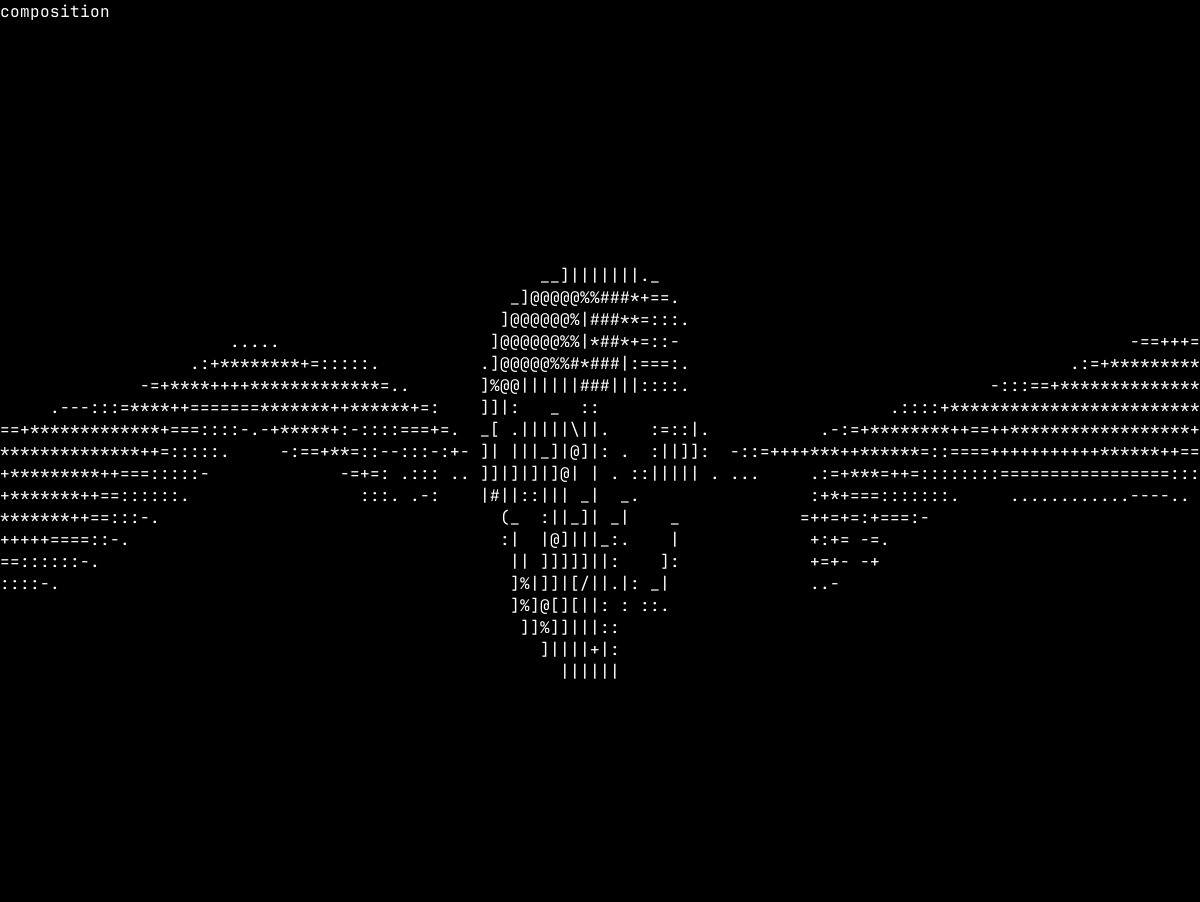
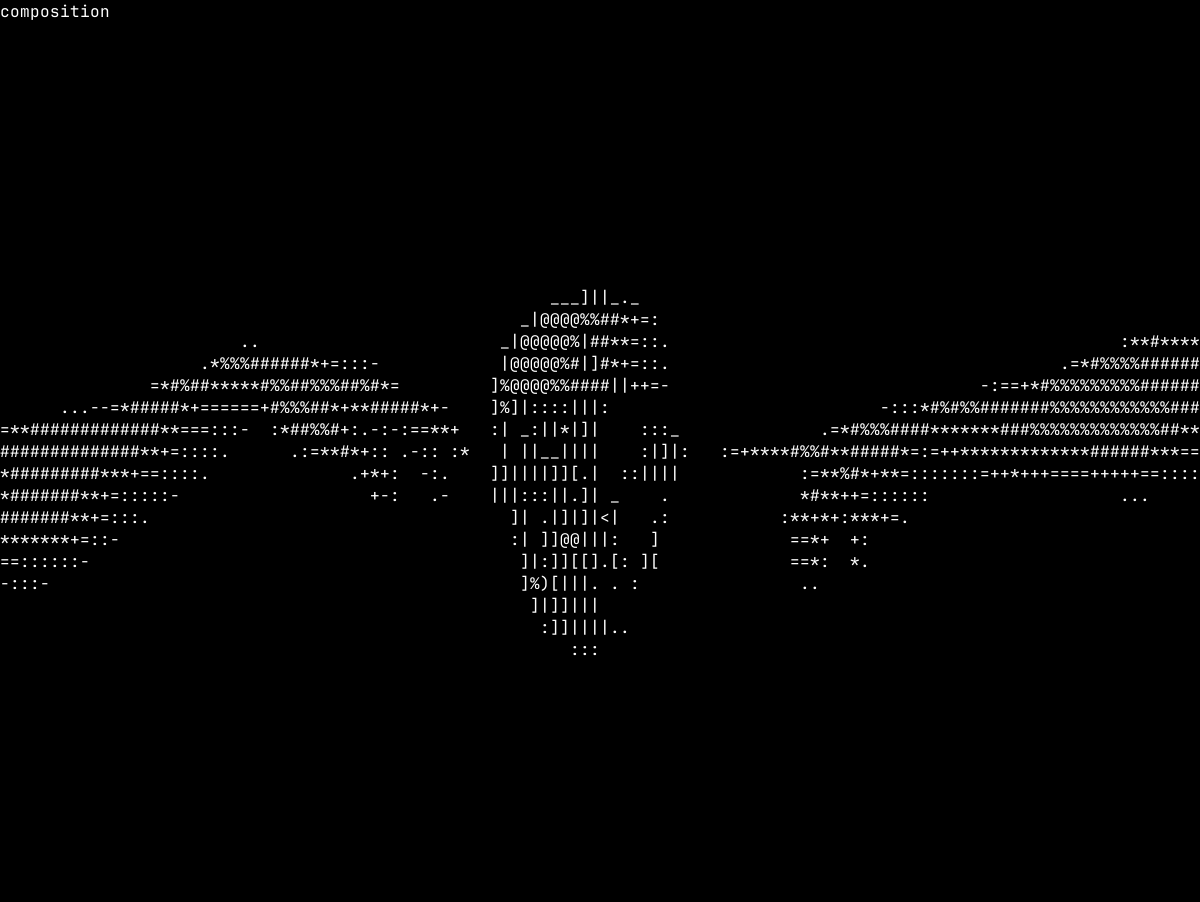
Reduce skull framing and strengthen hand shadow contrast

diff --git a/src/main.rs b/src/main.rs
@@ -6,7 +6,9 @@ use crossterm::{
 use glam::{EulerRot, Quat};
 use limen::{
     ascii::{AsciiResolver, CharGrid, GlyphMode, GlyphPalette, ToneMap},
-    composition::{Contacts, SplitBackdrop, Viewport, overlay_model},
+    composition::{
+        BackdropStyle, Contacts, DEFAULT_CENTER_WIDTH, SplitBackdrop, Viewport, overlay_model,
+    },
     font_atlas::{CellSize, FontAtlasConfig, GlyphAtlas},
     geometry::{self, Camera, Scene},
     obj,
@@ -35,15 +37,21 @@ struct Args {
     /// PNG with a left and right hand on black/transparent background
     #[arg(long, value_name = "PNG")]
     hands: Option<PathBuf>,
-    /// Fraction of terminal width reserved for the 3D model (default 0.42 with --hands)
+    /// Fraction of terminal width reserved for the 3D model (default 0.36 with --hands)
     #[arg(long, requires = "hands", value_parser = parse_center_width)]
     center_width: Option<f32>,
     /// Fingertip distance from the initial silhouette in character columns (default 1)
     #[arg(long, requires = "hands", value_parser = parse_hands_gap)]
     hands_gap: Option<f32>,
-    /// Static hand luminance multiplier (default 0.65)
+    /// Static hand luminance multiplier (default 0.85)
     #[arg(long, requires = "hands", value_parser = parse_unit)]
     hands_brightness: Option<f32>,
+    /// Static hand contrast, 1 to 3 (default 1.5)
+    #[arg(long, requires = "hands", value_parser = parse_hands_contrast)]
+    hands_contrast: Option<f32>,
+    /// Static hand luminance exponent, 0.25 to 4 (default 1.1)
+    #[arg(long, requires = "hands", value_parser = parse_gamma)]
+    hands_gamma: Option<f32>,
     /// Initial rotation about the X axis, in degrees
     #[arg(long, default_value = "0", allow_hyphen_values = true, value_parser = parse_degrees)]
     rotate_x: f32,
@@ -138,6 +146,9 @@ fn parse_center_width(s: &str) -> Result<f32, String> {
 fn parse_hands_gap(s: &str) -> Result<f32, String> {
     parse_bounded(s, 0.0, 10.0)
 }
+fn parse_hands_contrast(s: &str) -> Result<f32, String> {
+    parse_bounded(s, 1.0, 3.0)
+}
 fn parse_rotation_speed(s: &str) -> Result<f32, String> {
     parse_bounded(s, 0.0, 360.0)
 }
@@ -202,6 +213,14 @@ fn run() -> Result<(), Box<dyn Error>> {
         .as_deref()
         .map(SplitBackdrop::from_file)
         .transpose()?;
+    let defaults = BackdropStyle::default();
+    let backdrop_style = BackdropStyle {
+        brightness: args.hands_brightness.unwrap_or(defaults.brightness),
+        tone: ToneMap {
+            contrast: args.hands_contrast.unwrap_or(defaults.tone.contrast),
+            gamma: args.hands_gamma.unwrap_or(defaults.tone.gamma),
+        },
+    };
     let mut resolver = match args.font {
         Some(ref path) => AsciiResolver::with_atlas(GlyphAtlas::from_file(
             path,
@@ -298,7 +317,7 @@ fn run() -> Result<(), Box<dyn Error>> {
             width,
             height,
             if backdrop.is_some() {
-                args.center_width.unwrap_or(0.42)
+                args.center_width.unwrap_or(DEFAULT_CENTER_WIDTH)
             } else {
                 1.0
             },
@@ -344,11 +363,11 @@ fn run() -> Result<(), Box<dyn Error>> {
                 let contacts =
                     Contacts::from_frame(&frame, viewport, sx, sy, args.hands_gap.unwrap_or(1.0));
                 let mut layer = CharGrid::new(width, height);
-                image.render(
+                image.render_with_style(
                     &mut layer,
                     cell_aspect.value,
                     contacts,
-                    args.hands_brightness.unwrap_or(0.65),
+                    backdrop_style,
                     &mut resolver,
                 );
                 background = Some((key, layer));

diff --git a/src/composition.rs b/src/composition.rs
@@ -1,6 +1,6 @@
 //! Static split-image backdrops and terminal-space composition, independent of OBJ loading.
 use crate::{
-    ascii::{AsciiResolver, CharGrid},
+    ascii::{AsciiResolver, CharGrid, ToneMap},
     render::Framebuffer,
 };
 use std::{
@@ -11,6 +11,26 @@ use std::{
 };
 
 type Result<T> = std::result::Result<T, Box<dyn Error>>;
+
+pub const DEFAULT_CENTER_WIDTH: f32 = 0.36;
+
+/// Static image tone is independent of the model's lighting and exposure.
+#[derive(Debug, Clone, Copy)]
+pub struct BackdropStyle {
+    pub brightness: f32,
+    pub tone: ToneMap,
+}
+impl Default for BackdropStyle {
+    fn default() -> Self {
+        Self {
+            brightness: 0.85,
+            tone: ToneMap {
+                contrast: 1.5,
+                gamma: 1.1,
+            },
+        }
+    }
+}
 
 #[derive(Debug, Clone, Copy, PartialEq, Eq)]
 pub struct Viewport {
@@ -232,8 +252,29 @@ impl SplitBackdrop {
         brightness: f32,
         resolver: &mut AsciiResolver,
     ) {
+        self.render_with_style(
+            grid,
+            cell_aspect,
+            contacts,
+            BackdropStyle {
+                brightness,
+                tone: ToneMap::LINEAR,
+            },
+            resolver,
+        );
+    }
+    pub fn render_with_style(
+        &self,
+        grid: &mut CharGrid,
+        cell_aspect: f32,
+        contacts: Contacts,
+        style: BackdropStyle,
+        resolver: &mut AsciiResolver,
+    ) {
         assert!(cell_aspect.is_finite() && cell_aspect > 0.0);
-        assert!(brightness.is_finite() && (0.0..=1.0).contains(&brightness));
+        assert!(style.brightness.is_finite() && (0.0..=1.0).contains(&style.brightness));
+        assert!((1.0..=3.0).contains(&style.tone.contrast));
+        assert!((0.25..=4.0).contains(&style.tone.gamma));
         grid.clear();
         if grid.width() == 0 || grid.height() == 0 {
             return;
@@ -273,7 +314,8 @@ impl SplitBackdrop {
                         value += sample;
                     }
                 }
-                grid.set(x, y, resolver.tonal_char(value / 8.0 * brightness));
+                let luminance = style.tone.apply(value / 8.0) * style.brightness;
+                grid.set(x, y, resolver.tonal_char(luminance));
             }
         }
     }

diff --git a/examples/composition.rs b/examples/composition.rs
@@ -2,8 +2,10 @@
 use clap::Parser;
 use glam::Quat;
 use limen::{
-    ascii::{AsciiOptions, AsciiResolver, CharGrid},
-    composition::{Contacts, SplitBackdrop, Viewport, overlay_model},
+    ascii::{AsciiOptions, AsciiResolver, CharGrid, ToneMap},
+    composition::{
+        BackdropStyle, Contacts, DEFAULT_CENTER_WIDTH, SplitBackdrop, Viewport, overlay_model,
+    },
     font_atlas::{FontAtlasConfig, GlyphAtlas},
     geometry::{self, Camera, Scene},
     obj,
@@ -28,12 +30,16 @@ struct Args {
     rows: u16,
     #[arg(long, default_value_t = 0.5)]
     cell_aspect: f32,
-    #[arg(long, default_value_t = 0.42)]
+    #[arg(long, default_value_t = DEFAULT_CENTER_WIDTH)]
     center_width: f32,
     #[arg(long, default_value_t = 1.0)]
     hands_gap: f32,
-    #[arg(long, default_value_t = 0.65)]
+    #[arg(long, default_value_t = 0.85)]
     hands_brightness: f32,
+    #[arg(long, default_value_t = 1.5)]
+    hands_contrast: f32,
+    #[arg(long, default_value_t = 1.1)]
+    hands_gamma: f32,
     #[arg(long)]
     font: Option<PathBuf>,
     #[arg(long)]
@@ -48,6 +54,8 @@ fn main() -> Result<(), Box<dyn Error>> {
         || !(0.2..=0.8).contains(&args.center_width)
         || !(0.0..=10.0).contains(&args.hands_gap)
         || !(0.0..=1.0).contains(&args.hands_brightness)
+        || !(1.0..=3.0).contains(&args.hands_contrast)
+        || !(0.25..=4.0).contains(&args.hands_gamma)
     {
         return Err("invalid composition parameters".into());
     }
@@ -82,11 +90,17 @@ fn main() -> Result<(), Box<dyn Error>> {
     );
     let contacts = Contacts::from_frame(&frame, viewport, 2, 4, args.hands_gap);
     let mut output = CharGrid::new(w, h);
-    backdrop.render(
+    backdrop.render_with_style(
         &mut output,
         args.cell_aspect,
         contacts,
-        args.hands_brightness,
+        BackdropStyle {
+            brightness: args.hands_brightness,
+            tone: ToneMap {
+                contrast: args.hands_contrast,
+                gamma: args.hands_gamma,
+            },
+        },
         &mut resolver,
     );
     scene.instances[0].transform.rotation =

diff --git a/tests/cli.rs b/tests/cli.rs
@@ -251,15 +251,43 @@ fn hand_composition_options_validate_before_terminal_setup() {
         vec!["--center-width", "0.42"],
         vec!["--hands-gap", "1"],
         vec!["--hands-brightness", "0.65"],
+        vec!["--hands-contrast", "1.5"],
+        vec!["--hands-gamma", "1.1"],
         vec!["--hands", "missing.png", "--center-width", "NaN"],
         vec!["--hands", "missing.png", "--center-width", "0.1"],
         vec!["--hands", "missing.png", "--hands-gap", "11"],
         vec!["--hands", "missing.png", "--hands-gap", "NaN"],
         vec!["--hands", "missing.png", "--hands-brightness", "1.1"],
+        vec!["--hands", "missing.png", "--hands-contrast", "0.5"],
+        vec!["--hands", "missing.png", "--hands-contrast", "NaN"],
+        vec!["--hands", "missing.png", "--hands-gamma", "0"],
+        vec!["--hands", "missing.png", "--hands-gamma", "inf"],
     ] {
         let output = binary().args(args).output().unwrap();
         assert!(!output.status.success());
+        assert!(
+            String::from_utf8_lossy(&output.stderr).starts_with("error:"),
+            "invalid options reached asset loading"
+        );
         assert!(!output.stdout.contains(&0x1b) && !output.stderr.contains(&0x1b));
+    }
+    for (flag, value) in [
+        ("--hands-contrast", "1"),
+        ("--hands-contrast", "1.5"),
+        ("--hands-contrast", "3"),
+        ("--hands-gamma", "0.25"),
+        ("--hands-gamma", "1.1"),
+        ("--hands-gamma", "4"),
+    ] {
+        let output = binary()
+            .args(["--hands", "/missing/creation.png", flag, value])
+            .output()
+            .unwrap();
+        let error = String::from_utf8_lossy(&output.stderr);
+        assert!(
+            error.starts_with("limen:") && error.contains("/missing/creation.png"),
+            "valid options were rejected: {error}"
+        );
     }
     let output = binary()
         .args(["--hands", "/missing/creation.png"])

diff --git a/tests/composition.rs b/tests/composition.rs
@@ -194,3 +194,35 @@ fn static_tonal_lookup_preserves_model_history() {
     r.resolve(&frame, 2, 4, &mut grid, options);
     assert_eq!(grid.get(0, 0), Some(b'='));
 }
+
+#[test]
+fn stronger_hand_tone_separates_shadows_from_highlights_and_keeps_background_black() {
+    use limen::composition::BackdropStyle;
+    let image = SplitBackdrop::from_png(&hands()).unwrap();
+    let mut resolver = AsciiResolver::default();
+    let contacts = Contacts {
+        left: 6.0,
+        right: 14.0,
+        y: 5.0,
+    };
+    let mut linear = CharGrid::new(20, 10);
+    let mut expressive = CharGrid::new(20, 10);
+    let style = BackdropStyle::default();
+    image.render(&mut linear, 0.5, contacts, style.brightness, &mut resolver);
+    image.render_with_style(&mut expressive, 0.5, contacts, style, &mut resolver);
+    let level = |grid: &CharGrid, x| {
+        RAMP.iter()
+            .position(|&c| Some(c) == grid.get(x, 5))
+            .unwrap()
+    };
+    assert!(level(&expressive, 2) < level(&linear, 2));
+    assert!(level(&expressive, 17) > level(&linear, 17));
+    assert!(
+        level(&expressive, 17) - level(&expressive, 2) > level(&linear, 17) - level(&linear, 2)
+    );
+    assert!(
+        expressive
+            .rows()
+            .all(|row| row[6..14].iter().all(|&c| c == b' '))
+    );
+}

diff --git a/docs/composition/README.md b/docs/composition/README.md
@@ -4,11 +4,11 @@
 
 ![Руки по краям, череп в центре](composition.png)
 
-[Текстовый кадр](composition.txt): 120×40 символов без строки статуса, cell aspect 0.5, viewport модели 50×40, sampling модели 2×4. Шрифт JetBrains Mono Regular v2.304, 16 px/em, ячейка атласа 10×22. PNG-превью использует битмапы fontdue; реальное сглаживание терминала может отличаться.
+[Текстовый кадр](composition.txt): 120×40 символов без строки статуса, cell aspect 0.5, viewport модели 43×40, sampling модели 2×4. Шрифт JetBrains Mono Regular v2.304, 16 px/em, ячейка атласа 10×22. PNG-превью использует битмапы fontdue; реальное сглаживание терминала может отличаться.
 
 Исходники примера: локальные `Skull.obj`, объект `part_0`, и `Creation-of-Adam.png` размером 4999×2812. X-поворот модели 180°. Для PNG используются области [0, 2499) и [2499, 4999), исходный файл не меняется. При загрузке альфа смешивается с чёрным, а цвет преобразуется в яркость. Чёрные поля не определяют положение кончиков пальцев. Обе руки имеют одинаковый физический масштаб и отдельные позиции. Перед подбором тональных символов яркость уменьшается усреднением по площади через сетку 2×4.
 
-Параметры: центральная доля ширины 0.42, зазор 1 столбец, яркость рук 0.65. Меняйте `--hands-gap` для расстояния от пальцев до модели, `--center-width` для размера центральной области, `--hands-brightness` для яркости слоя. Модель загружается обычным OBJ-конвейером; фоновый слой не меняет глубину и освещение модели.
+Параметры: центральная доля ширины 0.36, зазор 1 столбец, яркость рук 0.85, контраст 1.5, gamma 1.1. По сравнению с [предыдущим кадром](composition-before.png), центральная область уменьшена с 50 до 43 столбцов: череп немного меньше относительно рук. На руках усилены различия между светлыми участками и тенями в исходном PNG. Меняйте `--hands-gap` для расстояния от пальцев до модели, `--center-width` для размера центральной области, `--hands-brightness` для яркости слоя, `--hands-contrast` и `--hands-gamma` для выраженности теней. После усреднения яркости применяется `clamp(contrast × (L − 0.5) + 0.5, 0, 1)^gamma × brightness`. Исходный чёрный фон сохраняется; новых физических теней от 3D-света на руках не рассчитывается. Модель загружается обычным OBJ-конвейером; фоновый слой не меняет глубину и освещение модели.
 
 ```sh
 cargo run --release -- Skull.obj --object part_0 --rotate-x 180 \
@@ -28,6 +28,8 @@ cargo run --release --example composition -- Skull.obj --object part_0 --rotate-
 python3 examples/preview_ascii.py target/creation-preview composition
 ```
 
+Для воспроизведения прежнего размера и тональности добавьте `--center-width 0.42 --hands-brightness 0.65 --hands-contrast 1 --hands-gamma 1`.
+
 Снимки появятся в `target/creation-preview/composition.txt` и `.png`. `--angle 90` показывает профиль с тем же положением рук. Для 80×24 добавьте `--columns 80 --rows 24`; PNG-генератору также передайте `--columns 80`.
 
-Проверки покрывают нечётную ширину изображения, прозрачную середину, разную яркость и высоту рук, сохранение физических пропорций, наложение тёмной геометрии, малые окна и сохранение истории ASCII. PTY-проверка использует синтетический PNG и проверяет неподвижные края при вращении и смене света/тона, скрытие фона в диагностике, zoom, resize и восстановление терминала. Эти проверки не зависят от локальных художественных исходников.
+Проверки покрывают нечётную ширину изображения, прозрачную середину, разную яркость и высоту рук, сохранение физических пропорций, усиление тонального разделения теней и светов без засветки фона, наложение тёмной геометрии, малые окна и сохранение истории ASCII. PTY-проверка использует синтетический PNG и проверяет неподвижные края при вращении и смене света/тона, скрытие фона в диагностике, zoom, resize и восстановление терминала. Эти проверки не зависят от локальных художественных исходников.

diff --git a/README.md b/README.md
@@ -37,13 +37,15 @@ cargo run --release -- Skull.obj --object part_0 --rotate-x 180 \
 | Параметр | По умолчанию | Действие |
 | --- | --- | --- |
 | `--hands PNG` | Выключено | Включить композицию с двумя областями изображения |
-| `--center-width` | 0.42 | Доля ширины окна для 3D-модели, 0.2–0.8 |
+| `--center-width` | 0.36 | Доля ширины окна для 3D-модели, 0.2–0.8 |
 | `--hands-gap` | 1 | Зазор от пальцев до исходного силуэта в столбцах, 0–10 |
-| `--hands-brightness` | 0.65 | Множитель яркости рук, 0–1 |
+| `--hands-brightness` | 0.85 | Множитель яркости рук, 0–1 |
+| `--hands-contrast` | 1.5 | Контраст рук вокруг яркости 0.5, 1–3; 1 — нейтральный |
+| `--hands-gamma` | 1.1 | Показатель степени яркости рук, 0.25–4; больше 1 углубляет тени |
 
-Последние три параметра требуют `--hands`. Для более тесного контакта попробуйте `--hands-gap 0.25`. `--font` калибрует также тональную шкалу фона.
+Последние пять параметров требуют `--hands`. Для более тесного контакта попробуйте `--hands-gap 0.25`. `--font` калибрует также тональную шкалу фона.
 
-Череп остаётся 3D-моделью со своим Z-buffer на каждый отсчёт. Руки — статичный ASCII-слой: они не вращаются, не следуют за меняющимся силуэтом и не получают свет от 3D-сцены. Компоновка пересчитывается при resize, изменении aspect ratio или zoom; при вращении переиспользуется готовый слой. Свет, contrast/gamma и палитра меняют модель; фон использует тональную палитру и собственную яркость. В диагностических режимах фон скрыт. При наложении покрытая геометрией ячейка модели закрывает фон даже тогда, когда её символ — пробел.
+Череп остаётся 3D-моделью со своим Z-buffer на каждый отсчёт. Руки — статичный ASCII-слой: они не вращаются, не следуют за меняющимся силуэтом и не получают свет от 3D-сцены. Компоновка пересчитывается при resize, изменении aspect ratio или zoom; при вращении переиспользуется готовый слой. Свет, contrast/gamma и палитра меняют модель; фон использует тональную палитру, собственные contrast/gamma и множитель яркости. Тон применяется после усреднения по площади, перед множителем яркости: так тени и складки из PNG отделяются от светлых участков, а пустой фон остаётся чёрным. Значения `--hands-contrast 1 --hands-gamma 1` возвращают линейную яркость слоя. В диагностических режимах фон скрыт. При наложении покрытая геометрией ячейка модели закрывает фон даже тогда, когда её символ — пробел.
 
 [Пример кадра и воспроизведение](docs/composition/README.md). Файлы `Skull.obj` и `Creation-of-Adam.png` для этого примера берутся локально; оригинальное изображение не перезаписывается.
 
